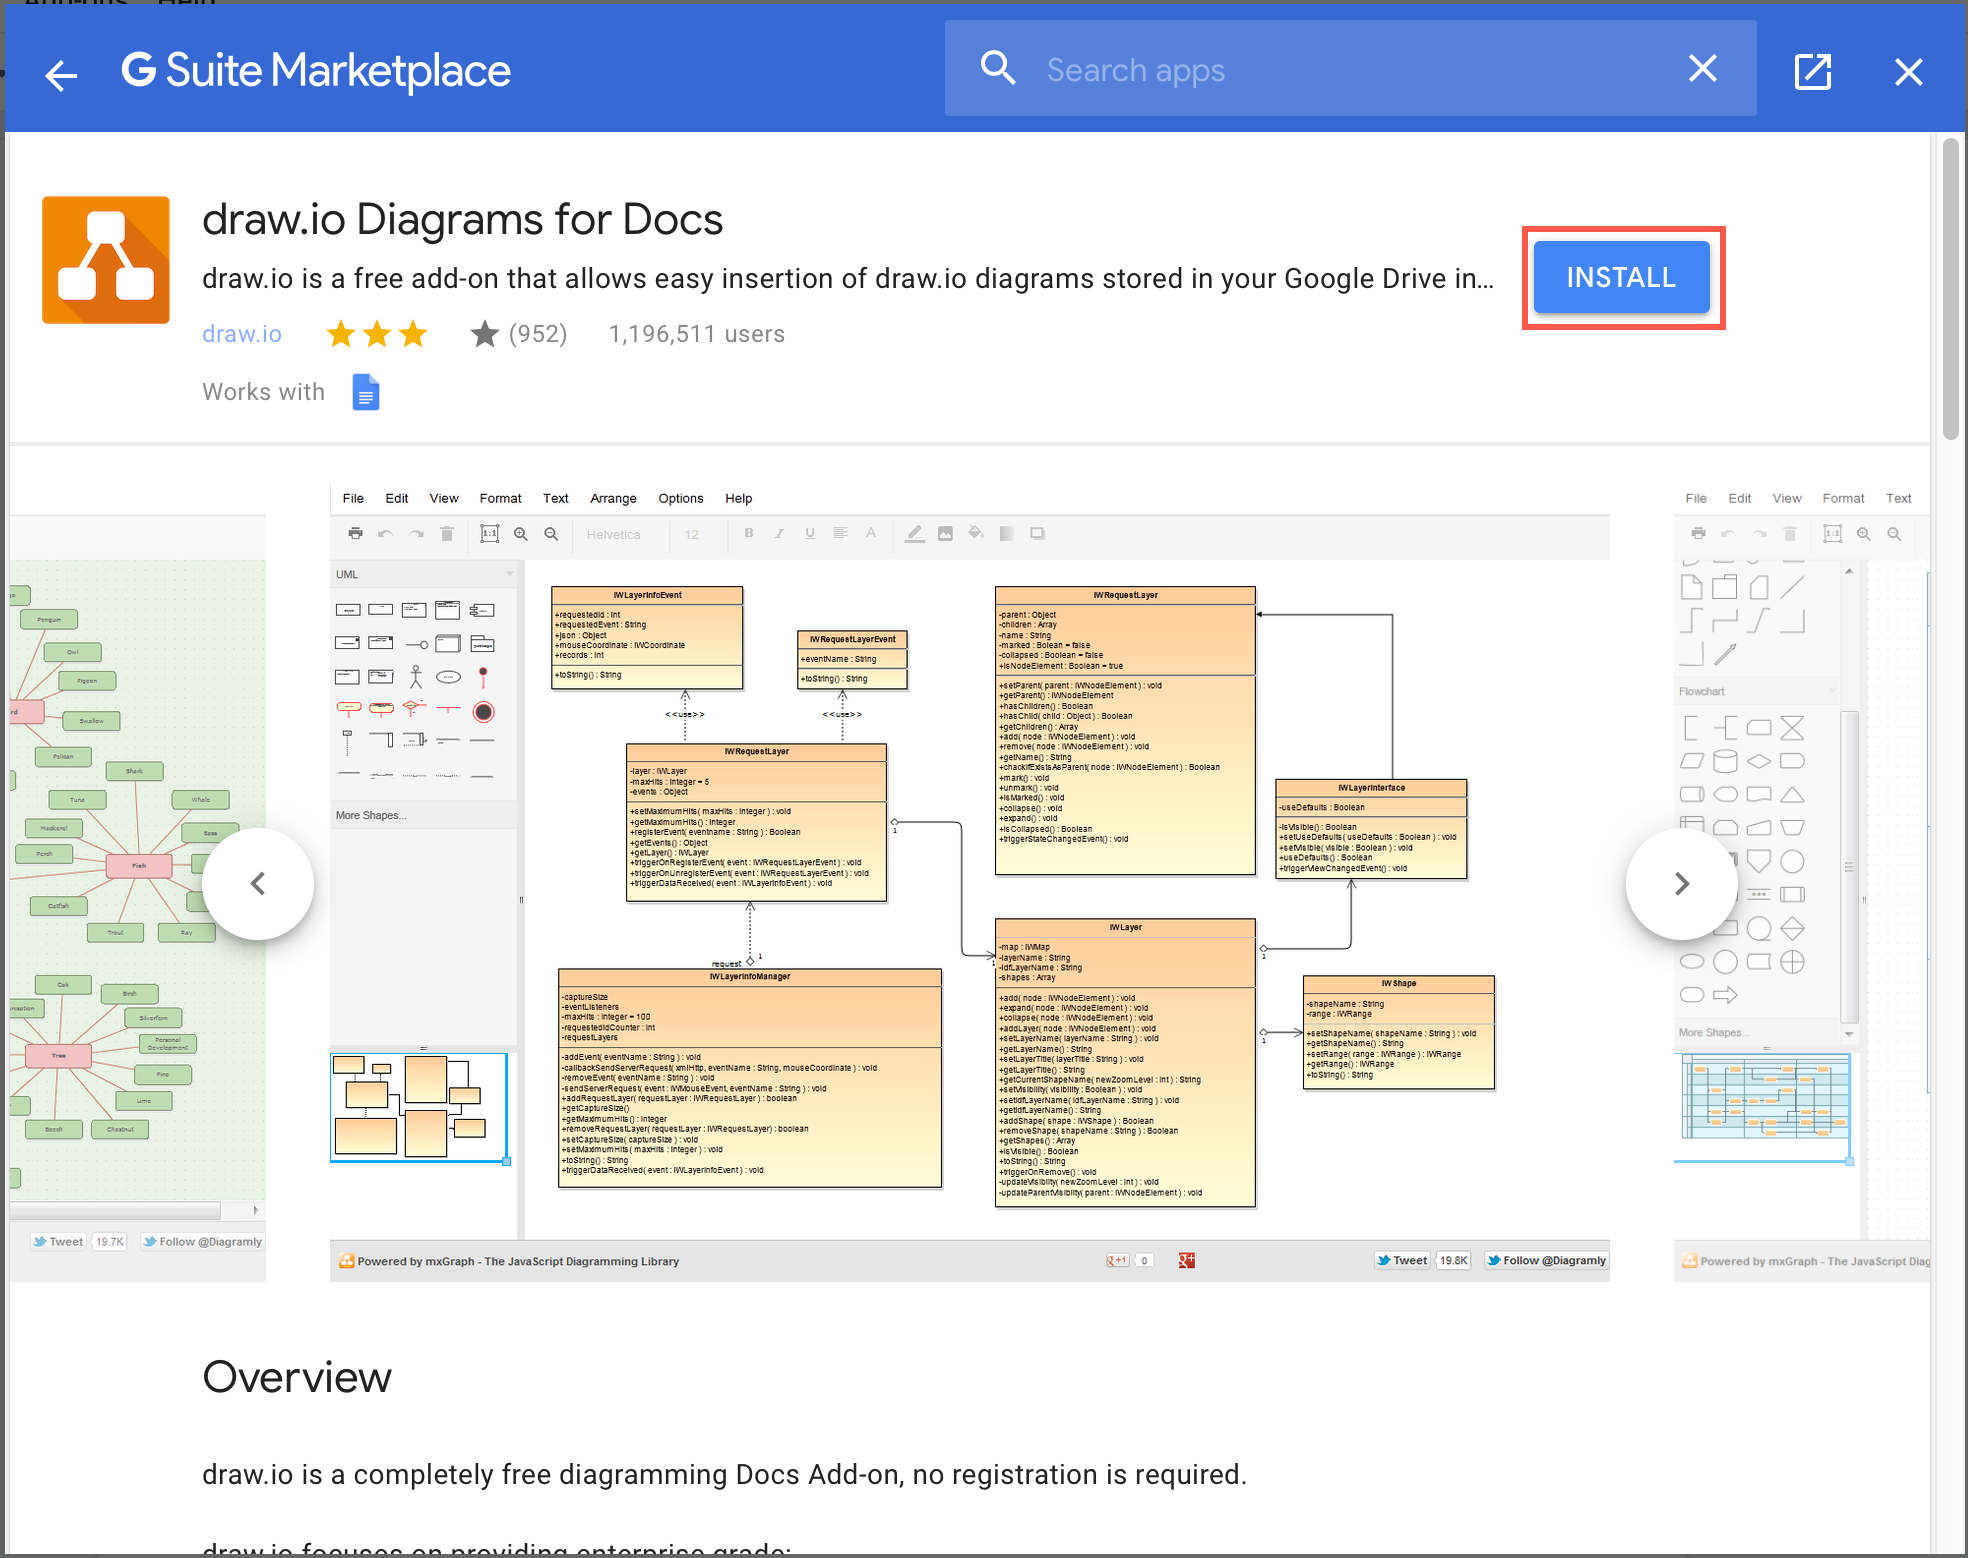
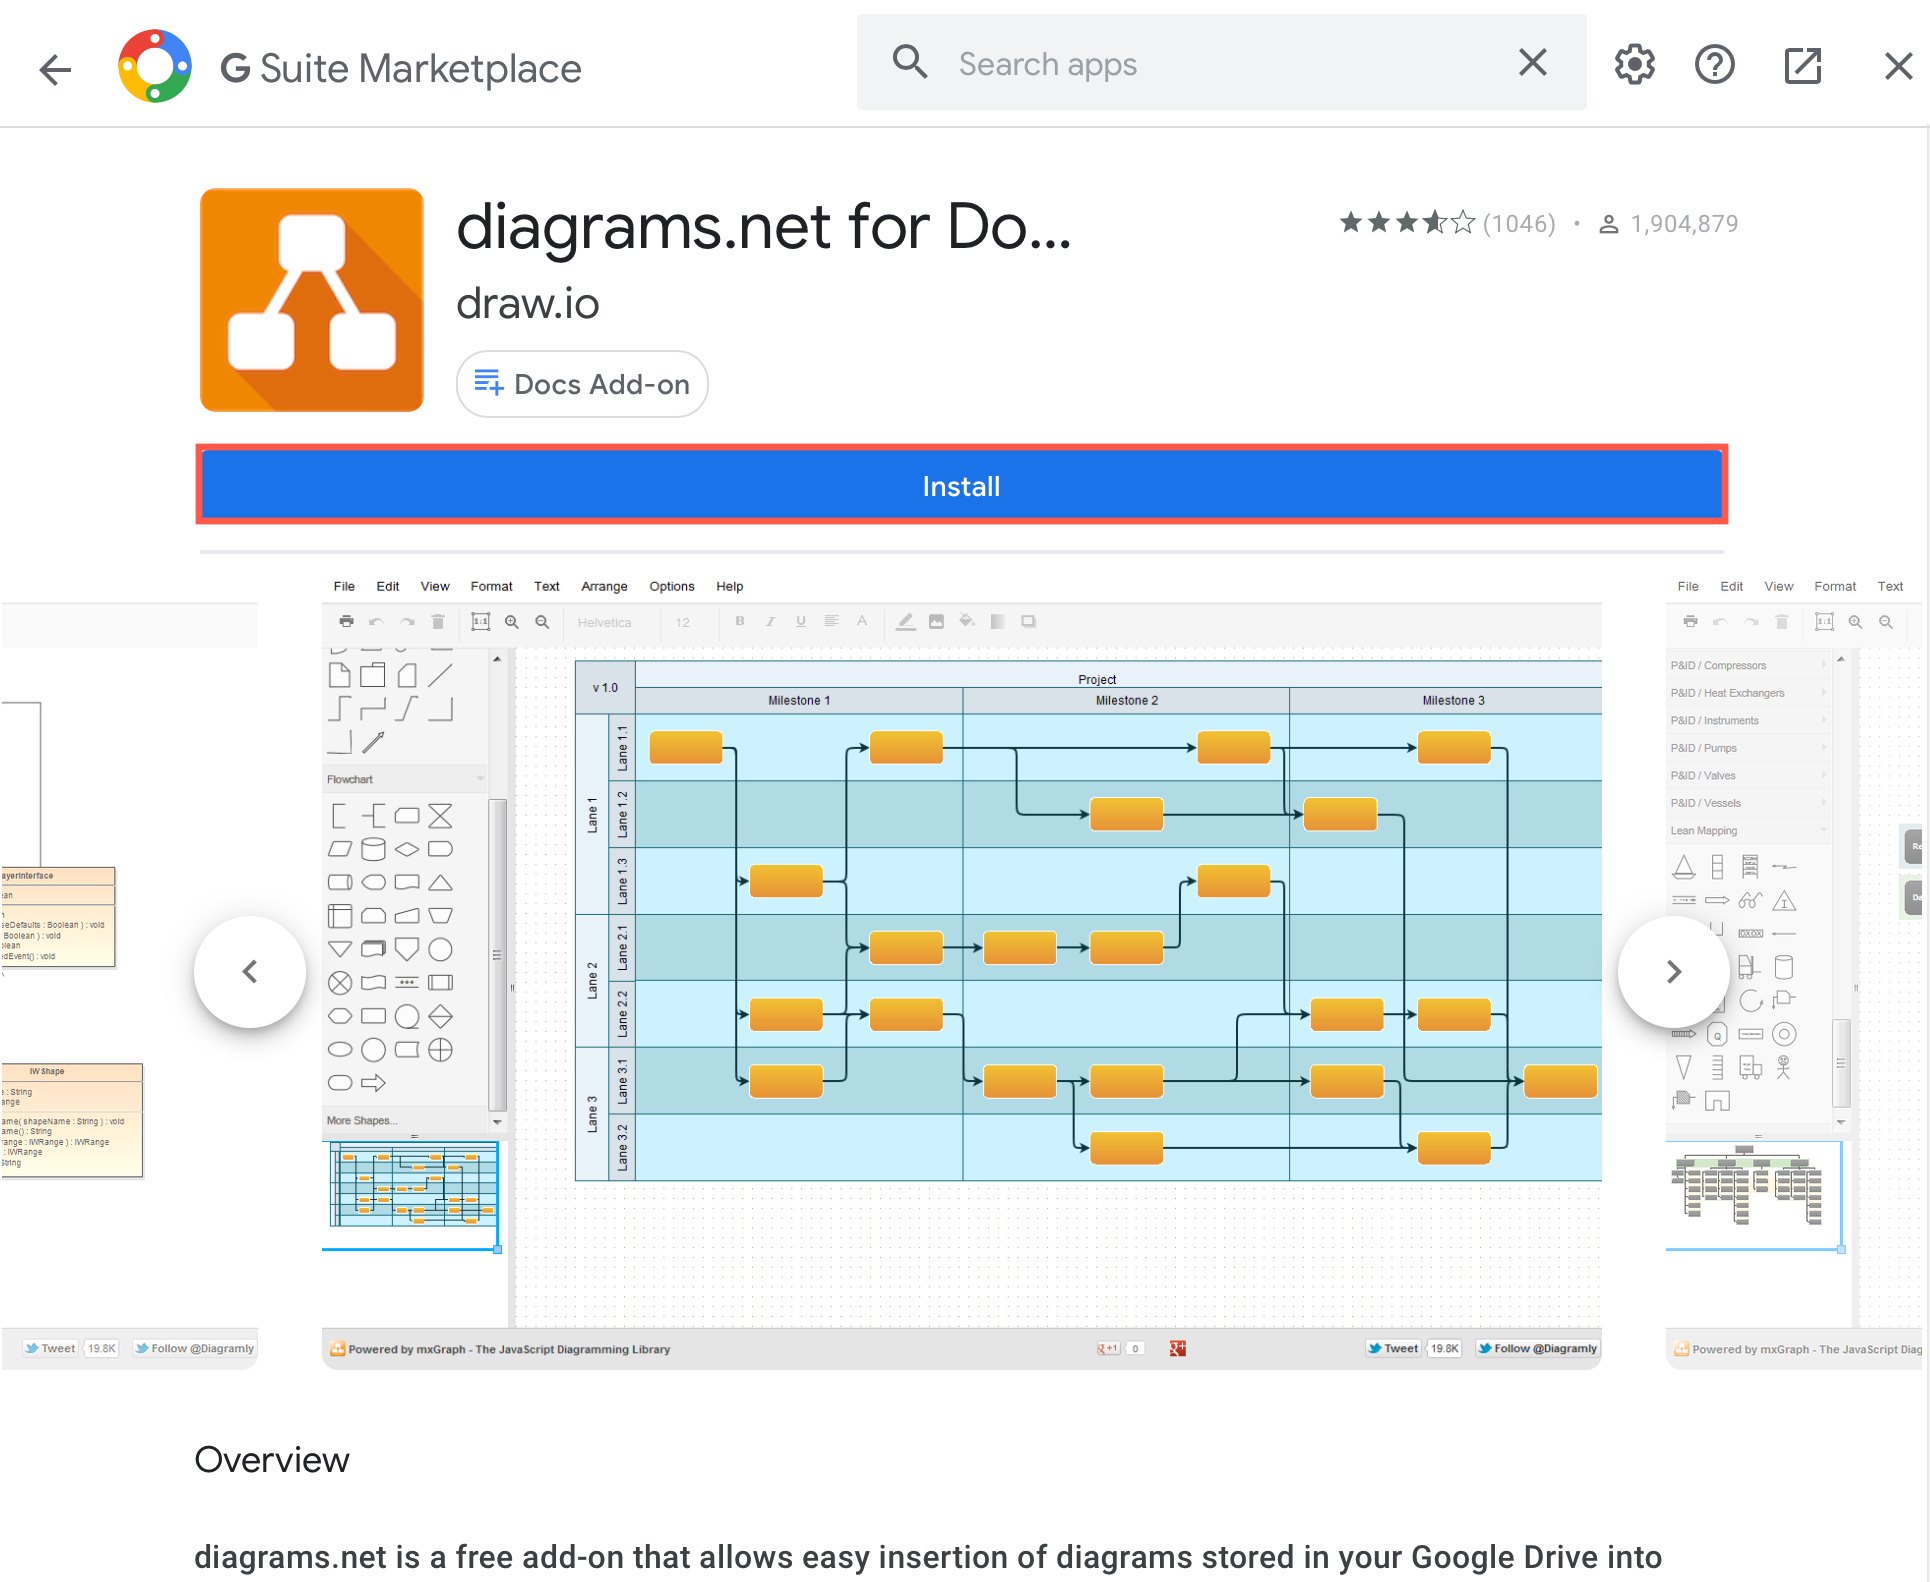
FAQs

diff --git a/doc/faq/google-docs-diagrams.md b/doc/faq/google-docs-diagrams.md
@@ -7,21 +7,21 @@ categories: [Integrations]
 
 Use the free [diagrams.net add-on for Google Docs](https://gsuite.google.com/u/0/marketplace/app/drawio_diagrams_for_docs/224440279306?hl=en&pann=docs_addon_widget) to embed your diagrams into your documents. When you make changes to your diagram, you need to update them inside your document to see the changes.
 
-## Install the draw.io Google Docs add-on
+## Install the diagrams.net Google Docs add-on
 
 1. Open a Google document, or create a new document. Click _Add-ons > Get Add-ons_.
-2. Search for diagrams and click on [_draw.io Diagrams for Docs_](https://gsuite.google.com/u/0/marketplace/app/drawio_diagrams_for_docs/224440279306?hl=en&pann=docs_addon_widget).
+2. Search for ``diagrams.net`` and click on [_diagrams.net Diagrams for Docs_](https://gsuite.google.com/u/0/marketplace/app/drawio_diagrams_for_docs/224440279306?hl=en&pann=docs_addon_widget).
 <br /><img src="/assets/img/blog/diagrams-docs-google-marketplace.png" style="width=100%;max-width:400px;height:auto;" alt="Install the diagrams for Docs add-on from the Google Marketplace">
 3. [Grant diagrams.net permission to access your Google Documents](/doc/faq/gsuite-permissions) and the files you have stored on Google Drive.
 <br /><img src="/assets/img/blog/diagrams-docs-grant-permission.png" style="width=100%;max-width:200px;height:auto;" alt="Grant permission for diagrams.net to access your Google Drive files and Google Docs">
-4. Start using the add-on via the _Add-ons > draw.io Diagrams for Docs_ submenu.
+4. Start using the add-on via the _Add-ons > diagrams.net for Docs_ submenu.
 
 **Note:** Your diagram data is only ever stored in your browser and on your Google Drive account.
 
 ### Embed a diagram in a Google doc
 
-1. Click _Add-ons > draw.io Diagrams for Docs > New Diagram_ to create a new diagram and save it to your Google Drive. You may need to grant additional permissions to diagrams.net to use your Google Drive account.
-2. To embed an existing diagram click _Add-ons > draw.io Diagrams for Docs > Insert Diagrams_. Select multiple diagrams by holding down ``Shift`` when you click on each diagram file.
+1. Click _Add-ons > diagrams.net for Docs > New Diagram_ to create a new diagram and save it to your Google Drive. You may need to grant additional permissions to diagrams.net to use your Google Drive account.
+2. To embed an existing diagram click _Add-ons > diagrams.net for Docs > Insert Diagrams_. Select multiple diagrams by holding down ``Shift`` when you click on each diagram file.
 3. Select your diagram file(s) then click _Select_.
 <br /><img src="/assets/img/blog/addon-google-select-diagram.png" style="width=100%;max-width:400px;height:auto;" alt="Select your diagram file from Google Drive to insert into your document">
 4. If your diagrams has multiple pages, select which page you want to display, then click _Insert_.
@@ -32,8 +32,8 @@ Use the free [diagrams.net add-on for Google Docs](https://gsuite.google.com/u/0
 Your diagrams are displayed as images inside your Google Document. When you edit the diagram file stored in your Google Drive, you'll need to regenerate the images to see those changes reflected in your document.
 
 1. Select the diagram in your Google Document.
-2. Click _Add-ons > draw.io Diagrams for Docs > Update Selected_.
+2. Click _Add-ons > diagrams.net for Docs > Update Selected_.
 
-If you want to update all of the diagrams, click _Add-ons > draw.io Diagrams for Docs > Update All_.
+If you want to update all of the diagrams, click _Add-ons > diagrams.net Diagrams for Docs > Update All_.
 
 [Learn more about formatting diagrams within a Google document](/blog/diagrams-google-docs)

diff --git a/doc/faq/gsuite-authorisation-troubleshoot.md b/doc/faq/gsuite-authorisation-troubleshoot.md
@@ -5,10 +5,13 @@ faq: true
 categories: [Integrations]
 ---
 
-If you are having trouble with your personal Google account, see how to [fix connection issues with Google Drive](/doc/faq/google-drive-connection-problems.html).
+If you are having trouble with your personal Google Drive account, see how to [fix connection issues with Google Drive](/doc/faq/google-drive-connection-problems.html), and make sure you have granted diagrams.net the [permissions needed to work with diagrams in G Suite](/doc/faq/gsuite-permissions.html).
 
-You you have authorised diagrams.net to access files on your personal Google account
+When you can work with diagrams stored in your personal Google Drive but not in a Google G Suite account, your administrator may not have allowed third-party apps on your company's G Suite domain.
 
-If authorization is working for your personal Google account, but not on a Google GSuite account, it's possible the administrator hasn't enabled third-party Drives apps for the GSuite domain.
-Under admin.google.com, go to Google Apps -> Drive -> General Settings. On the right hand side there is a tick box "Allow users to install Google Drive apps". That needs to be enabled and save changes. After a short while user will be able to install draw.io individually.
-If the domain admin doesn't wish to enable this, they can install draw.io Pro on the entire domain's behalf. Again, on the admin console, go to "Marketplace Apps" and click on "Add Marketplace Apps" (towards the top right). That will list all domain installable apps. We're generally in the first page, if not, search for "draw.io". Click on our listing and there will be directions to install for the whole domain.
+## Authorise third party apps in G Suite
+
+1. As an administrator, go to [admin.google.com](https://admin.google.com), then navigate to _Google Apps > Drive > General Settings_.
+2. On the right, enable the check box _Allow users to install Google Drive apps_ then save your changes. It may take a short time for the system to update, after which your users will be able to install the diagrams.net add-ons in G Suite apps themselves.
+
+If you don't want to enable this setting and allow your users to individually install the add-ons, [install diagrams.net domain wide](/doc/faq/gsuite-addons-domain-wide.html).

diff --git a/doc/faq/gsuite-addons-domain-wide.md b/doc/faq/gsuite-addons-domain-wide.md
@@ -1,11 +1,11 @@
 ---
-title: Install draw.io for G Suite domain-wide
+title: Install diagrams.net for G Suite domain-wide
 layout: page
 faq: true
 categories: [Integrations]
 ---
 
-As a G Suite administrator, you can install and approve the draw.io add-on for G Suite on behalf of all users on a domain.
+As a G Suite administrator, you can install and approve the diagrams.net add-ons for G Suite on behalf of all users on a domain.
 
 1. Go to [https://admin.google.com](https://admin.google.com) and log in.
 2. Select _Apps_.
@@ -14,15 +14,15 @@ As a G Suite administrator, you can install and approve the draw.io add-on for G
 <br /><img src="/assets/img/blog/gsuite-marketplace-apps.png" style="width=100%;max-width:150px;height:auto;" alt="Select Marketplace apps to see G Suite add-ons">
 4. Click on the plus symbol (_+_) in the top right of the page.
 <br /><img src="/assets/img/blog/gsuite-add-marketplace-app.png" style="width=100%;max-width:150px;height:auto;" alt="Add a new marketplace app">
-5. Search for _draw.io diagrams_, then click on draw.io.
+5. Search for _diagrams.net_, then click on _diagrams.net_ (draw.io).
 6. Click _Domain install_ and accept the terms and permissions that are presented.
-<br /><img src="/assets/img/blog/gsuite-domain-install.png" style="max-width:100%;height:auto;" alt="Install the draw.io add-on for G Suite domain wide">
+<br /><img src="/assets/img/blog/gsuite-domain-install.png" style="max-width:100%;height:auto;" alt="Install the diagrams.net add-on for G Suite domain wide">
 
 ## Get the footer removed from the diagram editor
 
 To remove the footer in the diagrams.net editor for all users, complete the following steps.
 
 1. Go to [https://admin.google.com](https://admin.google.com), select _Apps_, then _Marketplace apps_.
-2. Click on _draw.io_, then click on _Edit Service_.
+2. Click on _diagrams.net_, then click on _Edit Service_.
 3. Send us a readable screenshot of this page [via the appropriate support channel](https://github.com/jgraph/drawio/wiki/Getting-Support), which must include your G Suite domain.
 <br /><img src="/assets/img/blog/gsuite-marketplace-app-edit.png" style="max-width:100%;height:auto;" alt="Send us a screenshot of the add-on setup in your G Suite to remove the footer">

diff --git a/doc/faq/insert-template.md b/doc/faq/insert-template.md
@@ -1,0 +1,26 @@
+---
+title: Insert a template into an existing diagram
+layout: page
+faq: true
+categories: [Features]
+---
+
+Templates give you a starting point when you create a new diagram. If you have an existing diagram, you can also add one of the diagrams.net templates to it easily via the menu.
+
+1. Go to the diagram page to which you want to add a template.
+2. Select _Arrange > Insert > Template_ from the menu. Alternatively, click the ``+`` icon in the toolbar, then select _Template_.
+3. Templates are organised into logical categories on the left of the dialog. Select a category, then select a template on the right. Click _Insert_.
+<br /><img src="/assets/img/blog/template-insert.png" style="width=100%;max-width:400px;height:auto;" alt="Select a template to insert into your diagram">
+
+The template you selected will be copied to that page in your diagram, and you can now edit it. Add and modify shapes, labels, connectors and styles as you need.
+
+## Use any diagram as a template
+
+You can also import any diagram from its address on the internet (URL) and use it as a template. Note that the diagram file must be publicly accessible.
+
+1. Select _File > Import from > URL_ from the menu.
+2. Paste the address to your diagram into the _URL_ text field, then click _Import_.
+
+For example, to use one of the diagrams in our [diagram example repository on Github](https://github.com/jgraph/drawio-diagrams) as a template, you would paste its address: [``https://jgraph.github.io/drawio-diagrams/diagrams/bulb.xml``](https://jgraph.github.io/drawio-diagrams/diagrams/bulb.xml)
+
+<img src="/assets/img/blog/import-from-url.gif" style="width=100%;max-width:400px;height:auto;" alt="Import any diagram as a template via its URL">

diff --git a/doc/faq/gsuite-permissions.md b/doc/faq/gsuite-permissions.md
@@ -5,7 +5,7 @@ faq: true
 categories: [Integrations]
 ---
 
-The diagrams.net add-ons for Google's G Suite applications require a variety of permissions in order to embed your diagrams in Docs, Slides or Sheets.
+The diagrams.net (draw.io) add-ons for Google's G Suite applications require a variety of permissions in order to embed your diagrams in Docs, Slides or Sheets.
 
 ## Required G Suite permissions
 
@@ -15,7 +15,7 @@ The diagrams.net add-ons for Google's G Suite applications require a variety of 
 * **Allow this application to run when you are not present:** Acknowledges that the application scripts run on a server and not on your local computer.
 * **Display and run third-party web content:** Allows you to select a diagram file in the sidebar picker.
 
-<img src="/assets/img/blog/diagrams-docs-grant-permission.png" style="width=100%;max-width:200px;height:auto;" alt="Grant permission for diagrams.net to access your Google Drive files and Google Docs">
+<img src="/assets/img/blog/diagrams-docs-grant-permission.png" style="width=100%;max-width:200px;height:auto;" alt="Grant permission for diagrams.net (draw.io) to access your Google Drive files and Google Docs">
 
 If you are not comfortable granting these permissions, you can always export your diagram to an image and embed that image into your document manually. Keep in mind that you'll need to do this manually each time you edit your diagram files.
 

diff --git a/doc/faq/mobile-diagram-app.md b/doc/faq/mobile-diagram-app.md
@@ -1,0 +1,20 @@
+---
+title: Install diagrams.net on a mobile device
+layout: page
+faq: true
+categories: [Integrations]
+---
+
+There is no standalone version of diagrams.net available as a mobile app in the iOS or Android app stores. However, you can add the web-based app to your mobile device's home screen.
+
+## Add diagrams.net to your mobile home screen
+
+1. Go to [app.diagrams.net](https://app.diagrams.net) in your mobile web browser.
+2. Tap on the share button, then tap on _Add to home screen_. For example on iOS:
+<br /><img src="/assets/img/blog/mobile-add-homescreen.png" style="max-width:100%;height:auto;" alt="Tap share and Add to home screen to add the diagrams.net web app shortcut to your mobile device">
+3. If you are asked, confirm you want to add  to your home screen. Tap on the _Diagrams_ home screen icon to start diagramming.
+<br /><img src="/assets/img/blog/mobile-diagrams-homescreen.png" style="max-width:100%;height:auto;" alt="Add diagrams.net as a web app to your home screen on iOS and Android mobile devices">
+
+The process works in a similar way on Android devices.
+
+**Tip:** You can use the diagrams.net web app offline on mobile devices. [Learn more about using diagrams.net offline](/blog/diagrams-offline.html) on mobile and on Windows, macOS and Linux with the desktop app.

diff --git a/doc/faq/support-share-diagram.md b/doc/faq/support-share-diagram.md
@@ -1,0 +1,17 @@
+---
+title: Share a diagram file with the diagrams.net support team
+layout: page
+faq: true
+categories: [Troubleshooting]
+---
+
+When the diagrams.net support team asks you to share your diagram file with them to troubleshoot an issue, you can share it with the team via Google Drive.
+
+1. In your Google Drive, right click on the diagram file, then select _Share_ from the context menu.
+2. Enter ``support@diagrams.net`` in the text field, then click _Done_.
+
+The support team will receive an email notification with a link to your diagram.  
+
+<img src="/assets/img/blog/google-drive-share-file.png" style="max-width:100%;height:auto;" alt="Select Share in the right-click context menu to share a file with the diagrams.net support team">
+
+**Note:** Diagrams can only be shared with the support team in this way via Google Drive.

diff --git a/doc/faq/google-drive-revoke-access.md b/doc/faq/google-drive-revoke-access.md
@@ -5,9 +5,9 @@ faq: true
 categories: [Integrations]
 ---
 
-You can remove the access rights that the draw.io add-on or the diagrams.net online application has to your Google Drive at any time.
+You can remove the access rights that the diagrams.net add-ons or the diagrams.net online application have to your Google Drive at any time.
 
-**Note:** If your G Suite administrator installed the draw.io add-on domain-wide, they will have to uninstall it domain-wide to remove access for all users.
+**Note:** If your G Suite administrator has installed the diagrams.net (draw.io) add-on domain-wide, they will have to uninstall it domain-wide to remove access for all users.
 
 ## Disconnect diagrams.net from Google Drive
 

diff --git a/doc/faq/gsuite-deletion-policy.md b/doc/faq/gsuite-deletion-policy.md
@@ -1,10 +1,10 @@
 ---
-title: Diagrams.net for GSuite Deletion Policy
+title: Diagrams.net for G Suite Deletion Policy
 layout: page
 faq: true
 categories: [GSuite, Policy]
 ---
 
-The diagrams.net application for GSuite stores all information in Google Drive. No data is deleted or altered if the application is removed.
+The diagrams.net application for G Suite stores all information in Google Drive. No data is deleted or altered if the application is removed.
 
-Re-installing the application at any time restores access to all data.
+Re-installing the application at any time restores access to all data - no diagram data is lost.
